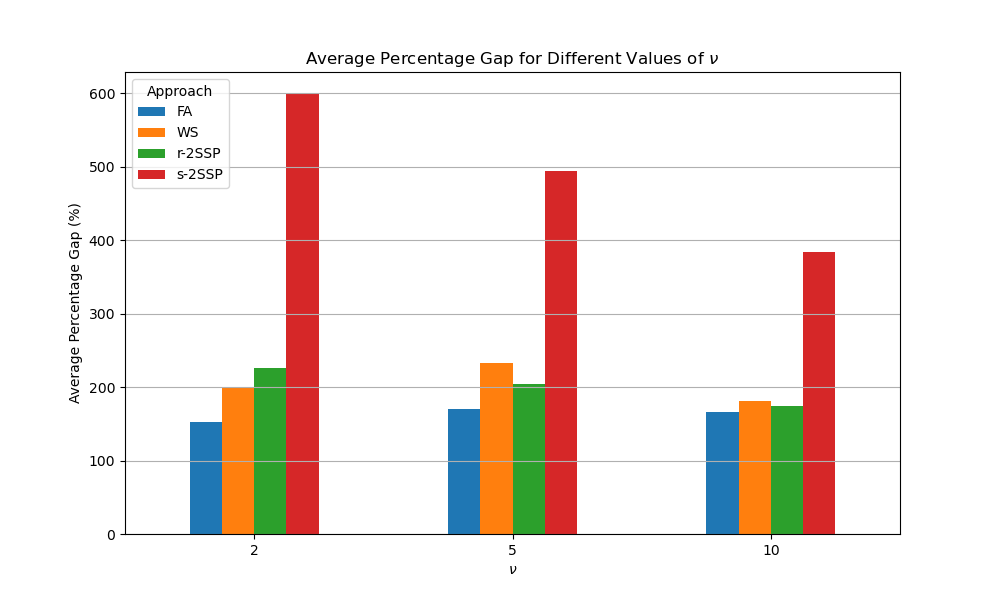
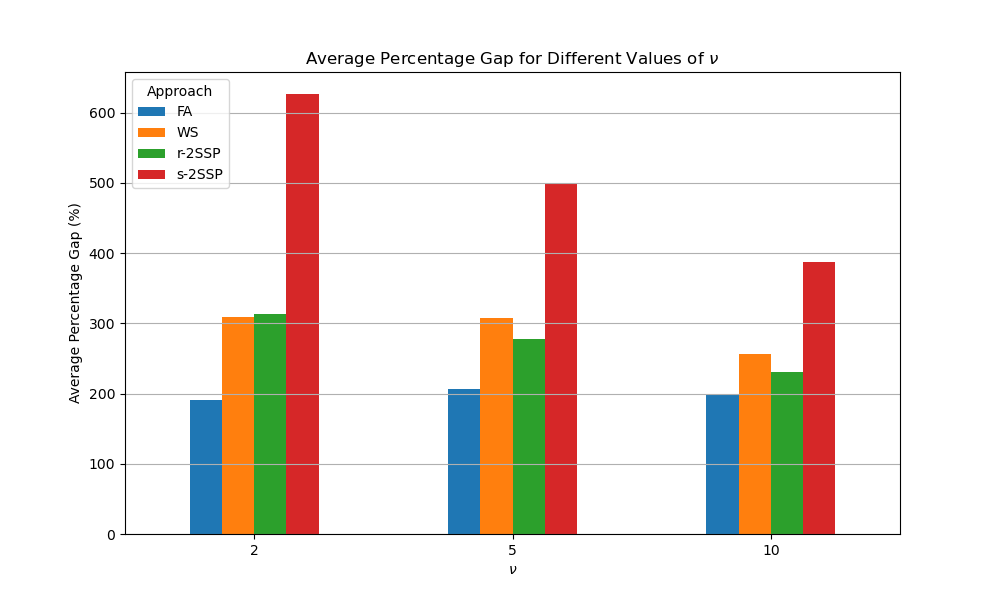
fixed some bugs in the table/figure generation

diff --git a/Python/output/synthetic/table-and-figure/Table-synthetic-gap-summary4.tex b/Python/output/synthetic/table-and-figure/Table-synthetic-gap-summary4.tex
@@ -1,29 +1,29 @@
-2 & 3 $\quad$ 10 && 828.2 & 109.4 && 24.2 & 182\% && 3.0 & 236\% && 251\% && 0.0 & 695\% \\ 
- &  $\quad\quad$ 20 && 1653.4 & 209.0 && 30.4 & 161\% && 5.2 & 220\% && 257\% && 0.0 & 654\%  \\ 
- &  $\quad\quad$ 30 && 2451.9 & 308.6 && 41.2 & 168\% && 6.5 & 219\% && 249\% && 0.1 & 656\%  \\ 
- & 6  $\quad\quad$ 10 && 1202.7 & 300.3 && 40.9 & 119\% && 4.2 & 151\% && 161\% && 0.0 & 450\%  \\ 
- &  $\quad\quad$ 20 && 1862.3 & 322.1 && 49.8 & 140\% && 7.1 & 189\% && 221\% && 0.1 & 573\%  \\ 
- &  $\quad\quad$ 30 && 2850.8 & 514.0 && 47.2 & 139\% && 9.7 & 182\% && 209\% && 0.1 & 554\%  \\ 
- & 9  $\quad\quad$ 10 && 1029.0 & 218.0 && 62.3 & 141\% && 5.9 & 182\% && 194\% && 0.0 & 543\%  \\ 
- &  $\quad\quad$ 20 && 1690.6 & 228.9 && 40.3 & 158\% && 9.9 & 215\% && 249\% && 0.1 & 642\%  \\ 
- &  $\quad\quad$ 30 && 2572.8 & 367.8 && 45.3 & 159\% && 13.0 & 208\% && 238\% && 0.1 & 625\%  \\ 
+2 & 3 $\quad$ 10 && 654.8 & 74.9 && 323.4 & 237\% && 94.8 & 462\% && 418\% && 0.7 & 622\% \\ 
+ &  $\quad\quad$ 20 && 1313.2 & 142.1 && 442.2 & 219\% && 126.9 & 412\% && 385\% && 0.8 & 655\%  \\ 
+ &  $\quad\quad$ 30 && 1940.8 & 209.1 && 256.8 & 243\% && 138.6 & 406\% && 410\% && 0.8 & 703\%  \\ 
+ & 6  $\quad\quad$ 10 && 710.1 & 136.9 && 330.6 & 214\% && 233.7 & 412\% && 384\% && 1.7 & 570\%  \\ 
+ &  $\quad\quad$ 20 && 1315.1 & 169.3 && 348.0 & 217\% && 302.8 & 410\% && 387\% && 2.0 & 659\%  \\ 
+ &  $\quad\quad$ 30 && 1976.9 & 274.5 && 360.7 & 235\% && 330.3 & 394\% && 401\% && 1.9 & 694\%  \\ 
+ & 9  $\quad\quad$ 10 && 678.6 & 104.6 && 347.7 & 225\% && 397.6 & 440\% && 407\% && 1.9 & 601\%  \\ 
+ &  $\quad\quad$ 20 && 1299.5 & 147.4 && 374.4 & 223\% && 548.6 & 417\% && 403\% && 4.0 & 669\%  \\ 
+ &  $\quad\quad$ 30 && 1936.2 & 227.5 && 525.6 & 243\% && 574.8 & 405\% && 422\% && 3.9 & 712\%  \\ 
 \hline
-5 & 3 $\quad$ 10 && 1032.2 & 140.0 && 19.4 & 189\% && 3.2 & 259\% && 218\% && 0.0 & 558\% \\ 
- &  $\quad\quad$ 20 && 2047.9 & 261.7 && 30.1 & 176\% && 5.5 & 249\% && 220\% && 0.1 & 529\%  \\ 
- &  $\quad\quad$ 30 && 2985.0 & 377.1 && 44.3 & 197\% && 7.1 & 257\% && 234\% && 0.1 & 540\%  \\ 
- & 6  $\quad\quad$ 10 && 1384.6 & 327.8 && 28.7 & 133\% && 4.3 & 182\% && 153\% && 0.0 & 389\%  \\ 
- &  $\quad\quad$ 20 && 2213.2 & 374.7 && 47.3 & 159\% && 7.8 & 225\% && 200\% && 0.1 & 481\%  \\ 
- &  $\quad\quad$ 30 && 3323.4 & 578.3 && 52.1 & 170\% && 10.2 & 226\% && 203\% && 0.1 & 475\%  \\ 
- & 9  $\quad\quad$ 10 && 1242.2 & 252.7 && 63.3 & 152\% && 6.3 & 208\% && 176\% && 0.1 & 447\%  \\ 
- &  $\quad\quad$ 20 && 2085.0 & 296.2 && 72.1 & 173\% && 11.0 & 245\% && 217\% && 0.1 & 518\%  \\ 
- &  $\quad\quad$ 30 && 3102.2 & 453.8 && 66.9 & 188\% && 14.7 & 247\% && 223\% && 0.1 & 517\%  \\ 
+5 & 3 $\quad$ 10 && 816.8 & 95.7 && 181.3 & 252\% && 96.8 & 389\% && 362\% && 0.8 & 504\% \\ 
+ &  $\quad\quad$ 20 && 1630.5 & 177.5 && 261.9 & 228\% && 129.1 & 362\% && 329\% && 0.9 & 492\%  \\ 
+ &  $\quad\quad$ 30 && 2369.7 & 254.5 && 419.2 & 252\% && 151.9 & 380\% && 362\% && 0.9 & 512\%  \\ 
+ & 6  $\quad\quad$ 10 && 846.3 & 155.4 && 247.2 & 232\% && 237.9 & 367\% && 340\% && 1.7 & 478\%  \\ 
+ &  $\quad\quad$ 20 && 1574.0 & 203.5 && 328.7 & 235\% && 326.6 & 387\% && 340\% && 2.1 & 510\%  \\ 
+ &  $\quad\quad$ 30 && 2322.6 & 315.4 && 435.1 & 253\% && 348.8 & 385\% && 366\% && 2.4 & 522\%  \\ 
+ & 9  $\quad\quad$ 10 && 831.6 & 127.6 && 393.0 & 242\% && 445.2 & 377\% && 350\% && 1.9 & 490\%  \\ 
+ &  $\quad\quad$ 20 && 1578.6 & 188.2 && 399.0 & 236\% && 620.4 & 389\% && 342\% && 4.5 & 510\%  \\ 
+ &  $\quad\quad$ 30 && 2303.7 & 278.9 && 633.1 & 259\% && 641.3 & 392\% && 375\% && 4.9 & 528\%  \\ 
 \hline
-10 & 3 $\quad$ 10 && 1372.1 & 191.7 && 22.7 & 176\% && 3.4 & 194\% && 184\% && 0.0 & 419\% \\ 
- &  $\quad\quad$ 20 && 2705.5 & 350.5 && 44.0 & 173\% && 5.8 & 189\% && 183\% && 0.1 & 401\%  \\ 
- &  $\quad\quad$ 30 && 3873.4 & 492.3 && 47.0 & 184\% && 7.7 & 199\% && 192\% && 0.1 & 417\%  \\ 
- & 6  $\quad\quad$ 10 && 1687.7 & 375.5 && 25.0 & 135\% && 4.8 & 149\% && 140\% && 0.0 & 317\%  \\ 
- &  $\quad\quad$ 20 && 2797.7 & 465.0 && 43.6 & 163\% && 8.2 & 178\% && 173\% && 0.1 & 379\%  \\ 
- &  $\quad\quad$ 30 && 4110.5 & 689.9 && 71.0 & 169\% && 11.0 & 182\% && 176\% && 0.1 & 383\%  \\ 
- & 9  $\quad\quad$ 10 && 1597.3 & 313.6 && 36.0 & 146\% && 6.7 & 161\% && 151\% && 0.1 & 343\%  \\ 
- &  $\quad\quad$ 20 && 2742.0 & 410.3 && 62.3 & 169\% && 11.9 & 186\% && 179\% && 0.1 & 391\%  \\ 
- &  $\quad\quad$ 30 && 3983.2 & 600.8 && 74.2 & 178\% && 16.3 & 192\% && 185\% && 0.2 & 400\%  \\ 
+10 & 3 $\quad$ 10 && 1086.7 & 130.9 && 199.1 & 233\% && 105.3 & 310\% && 288\% && 0.8 & 379\% \\ 
+ &  $\quad\quad$ 20 && 2159.2 & 237.2 && 258.5 & 218\% && 134.2 & 322\% && 267\% && 0.9 & 373\%  \\ 
+ &  $\quad\quad$ 30 && 3084.6 & 331.0 && 336.8 & 221\% && 150.0 & 336\% && 292\% && 0.9 & 395\%  \\ 
+ & 6  $\quad\quad$ 10 && 1073.3 & 187.9 && 178.7 & 230\% && 248.7 & 313\% && 282\% && 1.4 & 378\%  \\ 
+ &  $\quad\quad$ 20 && 2005.3 & 262.2 && 360.1 & 232\% && 345.2 & 346\% && 285\% && 2.5 & 401\%  \\ 
+ &  $\quad\quad$ 30 && 2898.2 & 386.4 && 268.3 & 234\% && 368.6 & 356\% && 306\% && 2.2 & 420\%  \\ 
+ & 9  $\quad\quad$ 10 && 1086.5 & 168.0 && 224.6 & 229\% && 463.6 & 305\% && 281\% && 1.9 & 374\%  \\ 
+ &  $\quad\quad$ 20 && 2043.5 & 257.8 && 419.1 & 229\% && 650.2 & 341\% && 283\% && 4.4 & 393\%  \\ 
+ &  $\quad\quad$ 30 && 2915.3 & 366.6 && 363.4 & 238\% && 690.2 & 356\% && 308\% && 5.1 & 417\%  \\ 
